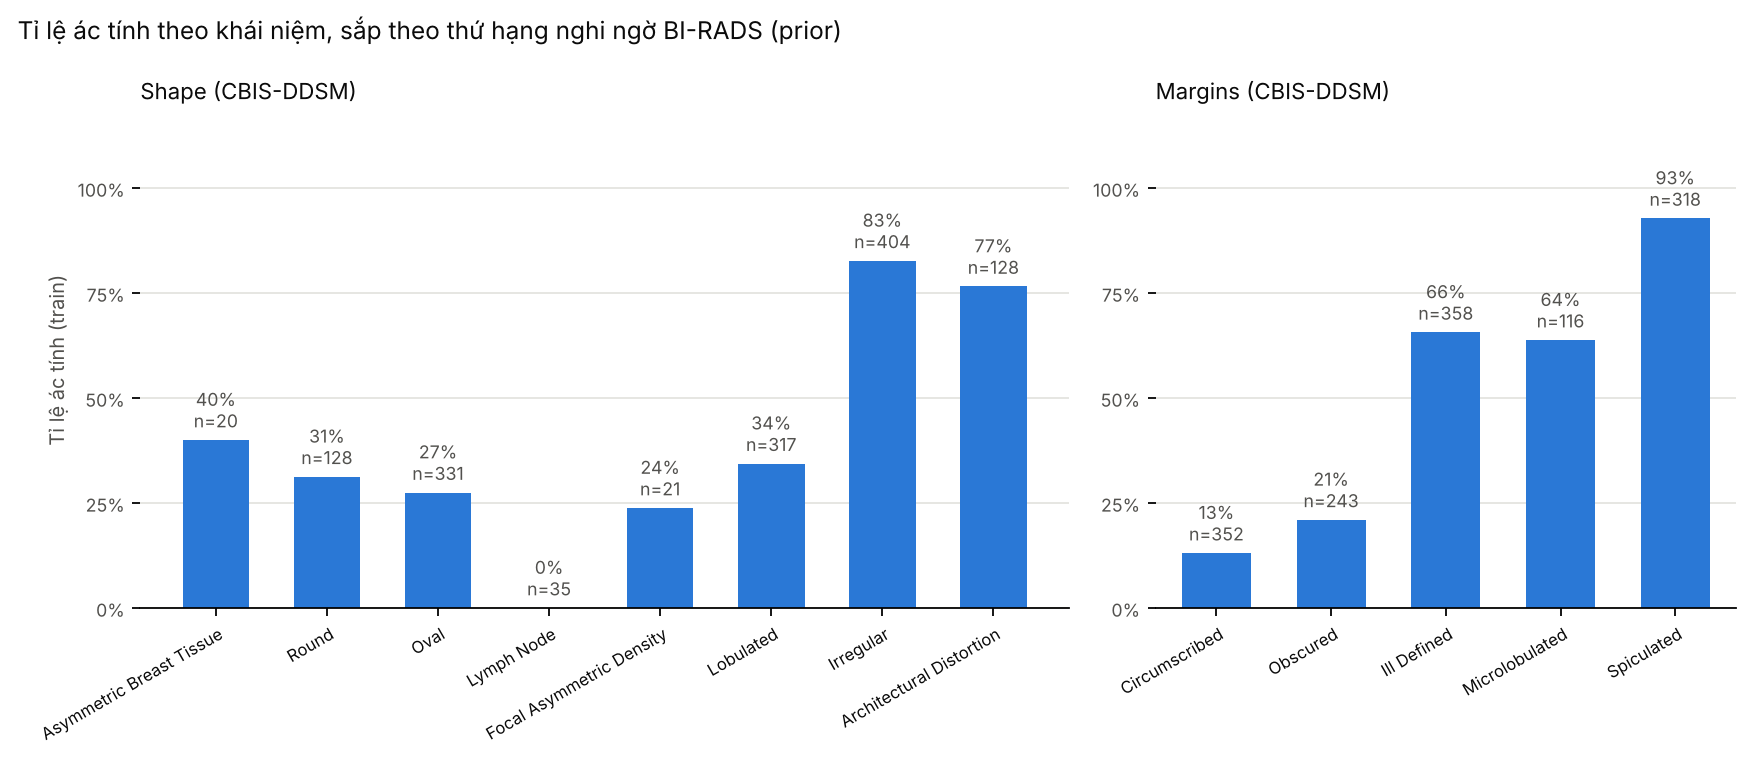
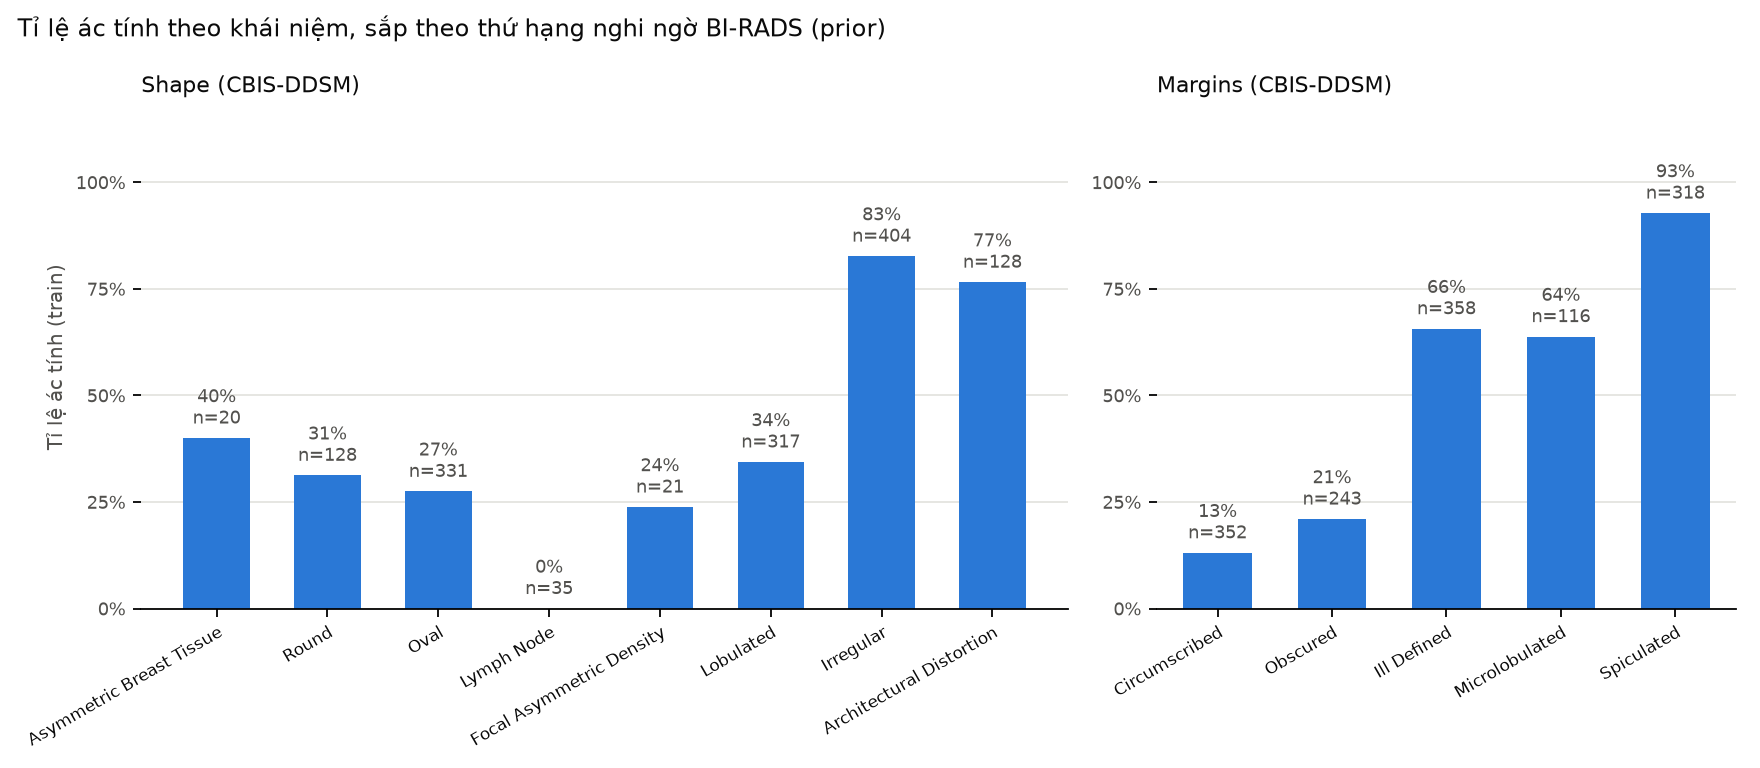
Configure Option A: auto Colab launcher (open_colab.py, open_in_colab.ps1) and Drive results path

diff --git a/tools/open_colab.py b/tools/open_colab.py
@@ -1,0 +1,176 @@
+"""
+Tự động mở Notebook trên Google Colab bằng trình duyệt Google Chrome (Phương án A).
+Ưu tiên:
+  1. Nếu file .ipynb trong thư mục gốc đã đồng bộ xong lên Google Drive for Desktop
+     (có Cloud ID trong DriveFS), mở trực tiếp URL Drive:
+     https://colab.research.google.com/drive/<CLOUD_ID>
+  2. Nếu Google Drive for Desktop đang đồng bộ dở (chưa cấp Cloud ID cho file .ipynb),
+     mở trực tiếp qua URL GitHub đã đồng bộ:
+     https://colab.research.google.com/github/ZSThai/Neural-symbolic/blob/main/<rel_path>
+     (Bên trong notebook đã cấu hình tự động mount Google Drive và ghi kết quả
+      trực tiếp về thư mục gốc `/content/drive/Othercomputers/NGOCTHAI/New Paper with Umberto/claude_research/...`).
+
+Cách dùng:
+    python tools/open_colab.py [đường_dẫn_notebook] [--no-browser]
+"""
+import argparse
+import json
+import os
+import sqlite3
+import subprocess
+import sys
+from pathlib import Path
+
+ROOT = Path(__file__).resolve().parent.parent
+DEFAULT_NB = ROOT / "step1" / "Step1_CBIS_DDSM_Colab.ipynb"
+GITHUB_REPO = "ZSThai/Neural-symbolic"
+CHROME_PATHS = [
+    r"C:\Program Files\Google\Chrome\Application\chrome.exe",
+    r"C:\Program Files (x86)\Google\Chrome\Application\chrome.exe",
+    os.path.expandvars(r"%LOCALAPPDATA%\Google\Chrome\Application\chrome.exe"),
+]
+
+
+def load_sqlite_safely(db_path: Path) -> sqlite3.Connection | None:
+    """Sử dụng SQLite Online Backup API để đọc an toàn ngay cả khi DriveFS đang ghi WAL."""
+    if not db_path.exists():
+        return None
+    try:
+        src = sqlite3.connect(f"file:{db_path.as_posix()}?mode=ro", uri=True, timeout=5.0)
+        mem = sqlite3.connect(":memory:")
+        src.backup(mem)
+        src.close()
+        return mem
+    except Exception:
+        return None
+
+
+def find_cloud_id_in_drivefs(nb_path: Path) -> tuple[str | None, str]:
+    """
+    Tìm Google Drive Cloud ID của file cục bộ từ DriveFS.
+    Trả về (cloud_id, sync_status_message).
+    """
+    nb_path = nb_path.resolve()
+    filename = nb_path.name
+    parent_name = nb_path.parent.name
+
+    drivefs_root = Path(os.path.expandvars(r"%LOCALAPPDATA%\Google\DriveFS"))
+    if not drivefs_root.exists():
+        return None, "Không tìm thấy thư mục Google DriveFS cục bộ"
+
+    for account_dir in drivefs_root.iterdir():
+        if not (account_dir.is_dir() and account_dir.name.isdigit()):
+            continue
+
+        mirror_db = load_sqlite_safely(account_dir / "mirror_sqlite.db")
+        meta_db = load_sqlite_safely(account_dir / "metadata_sqlite_db")
+
+        target_stable_id = None
+        cloud_version = None
+
+        if mirror_db is not None:
+            try:
+                cur = mirror_db.cursor()
+                cur.execute(
+                    """
+                    SELECT c.stable_id, c.cloud_version, p.local_filename
+                    FROM mirror_item c
+                    LEFT JOIN mirror_item p ON c.parent_local_stable_id = p.local_stable_id
+                    WHERE c.local_filename = ?
+                    """,
+                    (filename,),
+                )
+                rows = cur.fetchall()
+                for st_id, c_ver, p_name in rows:
+                    if p_name == parent_name or len(rows) == 1:
+                        target_stable_id = st_id
+                        cloud_version = c_ver
+                        break
+            except Exception:
+                pass
+            finally:
+                mirror_db.close()
+
+        if meta_db is not None:
+            try:
+                cur = meta_db.cursor()
+                # Nếu đã biết stable_id từ bảng mirror_item (thư mục Other computers)
+                if target_stable_id is not None:
+                    cur.execute(
+                        "SELECT cloud_id FROM stable_ids WHERE stable_id = ?",
+                        (target_stable_id,),
+                    )
+                    row = cur.fetchone()
+                    if row and row[0]:
+                        meta_db.close()
+                        return row[0], f"Đã đồng bộ lên Google Drive (stable_id={target_stable_id}, cloud_version={cloud_version})"
+
+                # Kiểm tra thêm trong bảng items (nếu file chưa bị xóa)
+                cur.execute(
+                    """
+                    SELECT id, stable_id FROM items
+                    WHERE local_title = ? AND (trashed = 0 OR trashed IS NULL) AND (is_tombstone = 0 OR is_tombstone IS NULL)
+                    """,
+                    (filename,),
+                )
+                rows = cur.fetchall()
+                if rows and rows[0][0]:
+                    meta_db.close()
+                    return rows[0][0], f"Đã tìm thấy trong Drive items (stable_id={rows[0][1]})"
+            except Exception:
+                pass
+            finally:
+                meta_db.close()
+
+        if target_stable_id is not None and cloud_version == -1:
+            return None, f"Drive Desktop đã ghi nhận file (stable_id={target_stable_id}) nhưng đang xếp hàng chờ tải lên đám mây (cloud_version=-1)"
+
+    return None, "Chưa có Cloud ID trên DriveFS"
+
+
+def launch_chrome(url: str) -> str:
+    for chrome in CHROME_PATHS:
+        if os.path.exists(chrome):
+            subprocess.Popen([chrome, url])
+            return chrome
+    os.startfile(url)
+    return "default_browser"
+
+
+def main():
+    parser = argparse.ArgumentParser(description="Mở Notebook trên Google Colab qua Chrome")
+    parser.add_argument("notebook", nargs="?", default=str(DEFAULT_NB), help="Đường dẫn tới file .ipynb")
+    parser.add_argument("--no-browser", action="store_true", help="Chỉ in thông tin, không mở trình duyệt")
+    args = parser.parse_args()
+
+    nb_path = Path(args.notebook).resolve()
+    if not nb_path.exists():
+        print(f"[LỖI] Không tìm thấy file notebook: {nb_path}", file=sys.stderr)
+        sys.exit(1)
+
+    cloud_id, sync_msg = find_cloud_id_in_drivefs(nb_path)
+    rel_path = nb_path.relative_to(ROOT).as_posix()
+
+    if cloud_id:
+        colab_url = f"https://colab.research.google.com/drive/{cloud_id}"
+        mode = "google_drive_direct"
+    else:
+        colab_url = f"https://colab.research.google.com/github/{GITHUB_REPO}/blob/main/{rel_path}"
+        mode = "github_with_drive_mount"
+
+    info = {
+        "notebook": str(nb_path),
+        "mode": mode,
+        "drive_sync_status": sync_msg,
+        "cloud_id": cloud_id,
+        "colab_url": colab_url,
+    }
+    print(json.dumps(info, indent=2, ensure_ascii=False))
+
+    if not args.no_browser:
+        browser = launch_chrome(colab_url)
+        print(f"Đã mở Chrome ({browser}) tới: {colab_url}")
+
+
+if __name__ == "__main__":
+    main()

diff --git a/tools/build_notebook.py b/tools/build_notebook.py
@@ -99,11 +99,11 @@ CFG = dict(
     # Nguồn dữ liệu: "auto" thử lần lượt: thư mục cục bộ → Google Drive gốc → repo GitHub → TCIA → tải file lên tay
     DATA_SOURCE="auto",
     LOCAL_DIRS=["official_csv", "data/official_csv", "../data/official_csv", "claude_research/data/official_csv"],
-    GITHUB_REPO="OWNER/REPO",  # ← sửa thành "tên-tài-khoản/tên-repo" sau khi đẩy lên GitHub
+    GITHUB_REPO="ZSThai/Neural-symbolic",
     GITHUB_BRANCH="main",
     DRIVE_DIR="/content/drive/Othercomputers/NGOCTHAI/New Paper with Umberto/claude_research/data/official_csv",
     SAVE_TO_DRIVE=True,       # True: lưu kết quả trực tiếp vào thư mục gốc đã đồng bộ
-    SAVE_DIR="/content/drive/Othercomputers/NGOCTHAI/New Paper with Umberto/claude_research/step1/results",
+    SAVE_DIR="/content/drive/Othercomputers/NGOCTHAI/New Paper with Umberto/claude_research/step1/step1_results",
     N_SPLITS=5,               # số fold CV (chia theo bệnh nhân)
     N_REPEATS=2 if FAST else 5,   # số lần lặp CV với seed khác nhau
     N_BOOT=500 if FAST else 2000, # số lần bootstrap theo bệnh nhân cho CI 95%
@@ -934,10 +934,12 @@ display(Markdown(f"""
 code(r'''
 # @title 6.2 Lưu bảng, hình và tải về { display-mode: "form" }
 if IN_COLAB and CFG["SAVE_TO_DRIVE"]:
+    import glob
     from google.colab import drive
-    if not Path("/content/drive/MyDrive").exists():
+    if not Path("/content/drive").exists():
         drive.mount("/content/drive")
-    save = Path(CFG["SAVE_DIR"])
+    synced_step1 = glob.glob("/content/drive/Othercomputers/*/New Paper with Umberto/claude_research/step1")
+    save = (Path(synced_step1[0]) / "step1_results") if synced_step1 else Path(CFG["SAVE_DIR"])
 else:
     save = Path("/content/step1_results" if IN_COLAB else "step1_results")
 save.mkdir(parents=True, exist_ok=True)
